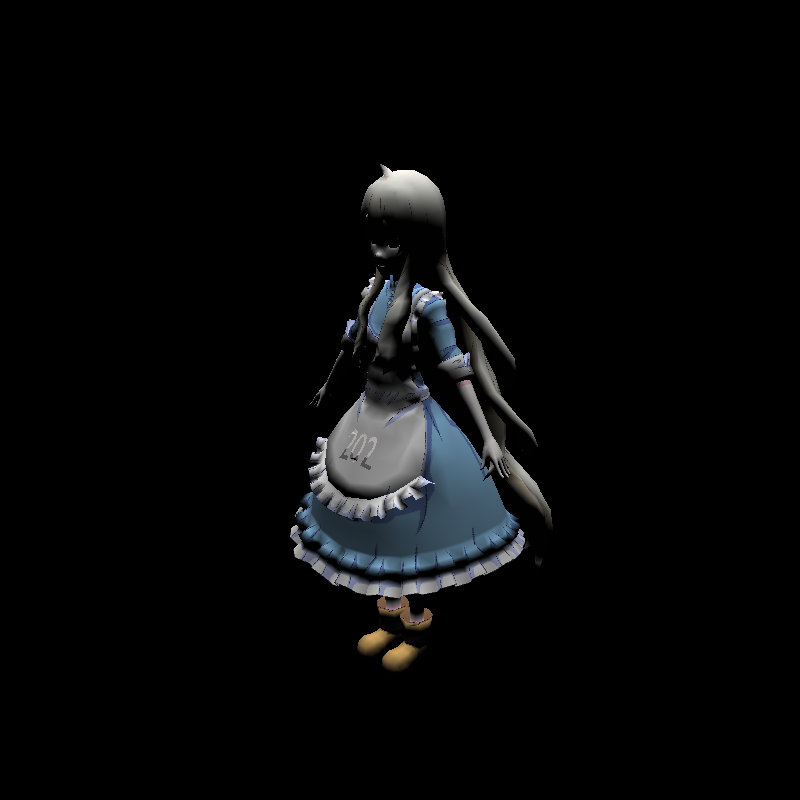
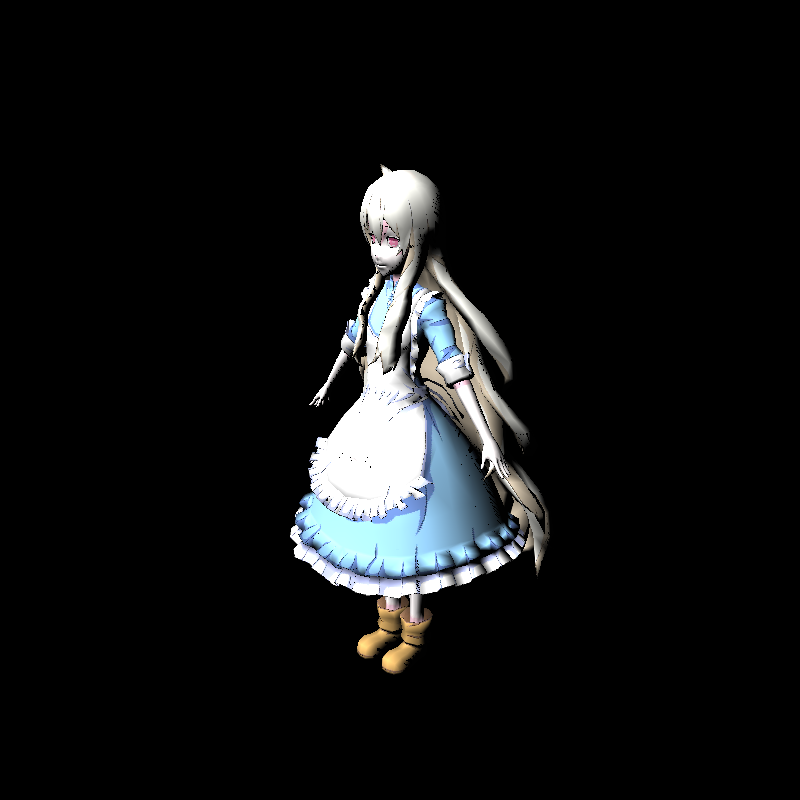
two-passed-shadow

Changed region(s): [[0.3438, 0.1875, 0.6875, 0.8438]]

diff --git a/main.cpp b/main.cpp
@@ -159,6 +159,8 @@ void Example03() {
     // delete[] zbuffer;
 }
 
+// Gouraud Shader
+/*
 void Example04() {
     const Vec3f camera(1,1,1);
     const Vec3f origin(0,0,0);
@@ -211,7 +213,10 @@ void Example04() {
 
     delete model;
 }
+*/
 
+// Phong Shader with no shadow
+/*
 void Example05() {
     const Vec3f camera(1,1,1);
     const Vec3f origin(0,0,0);
@@ -264,6 +269,87 @@ void Example05() {
 
     delete model;
 }
+*/
+
+// Phong Shader with hard shadow
+void Example06() {
+    const Vec3f camera(1,1,1);
+    const Vec3f origin(0,0,0);
+    const Vec3f up(0,1,0);
+    QGL::DirectLight dl = QGL::DirectLight(Vec3f(0, 1, 1), Vec3f(0,-1,-1));
+    QGL::Frame depthFrame = QGL::Frame(width, height, 4);
+    depthFrame.id = 1;
+    QGL::Frame frame = QGL::Frame(width, height, 4);
+    frame.id = 2;
+    QGL::Zbuffer zbuffer = QGL::Zbuffer(width, height);
+    QGL::Log log = QGL::Log(true, "Depth Shading: ");
+    // QGL::NUMTHREADS = 8;
+ 
+    QGL::Model *model = new QGL::Model("../obj/Marry.obj");
+    model->vertsNormalize();
+    model->loadMap("../obj/MC003_Kozakura_Mari.png", QGL::MT_Diffuse);
+
+    // Set camera from light
+    std::cout << "set camera from light." << std::endl;
+    QGL::SetModelMat();
+    QGL::SetViewMat(dl.pos, origin, up);
+    // QGL::SetPerspectiveProjectMat(camera, origin);
+    QGL::SetScreenMat(-100, -350, 1000, 1000, depth);
+    QGL::SetCamera(true);
+
+    // Depth Shader
+    std::cout << "set Depth Shader." << std::endl;
+    QGL::DepthShader depthShader = QGL::DepthShader();
+    depthShader.uniform_mat_transform = QGL::MAT_TRANS;
+    // Get z-buffer
+    QGL::RenderNode rn;
+    rn.model = model;
+    rn.shader = &depthShader;
+    rn.frame = &depthFrame;
+    rn.zbuffer = &zbuffer;
+    rn.log = &log;
+    rn.comType = QGL::CT_Single;
+    std::cout << "Get z-buffer" << std::endl;
+    QGL::Timer timer = QGL::Timer();
+    timer.update();
+    QGL::Rendering(rn);
+    std::cout << timer.second() << "s" << std::endl;
+
+
+    std::cout << "set Shadow Shader." << std::endl;
+    log = QGL::Log(true, "Shadow Shading: ");
+    QGL::ShadowShader shadowShader = QGL::ShadowShader();
+    shadowShader.uniform_mat_depth_transform = QGL::MAT_TRANS;
+    // Set camera from eye
+    std::cout << "Set camera from eye." << std::endl;
+    QGL::SetModelMat();
+    QGL::SetViewMat(camera, origin, up);
+    QGL::SetPerspectiveProjectMat(camera, origin);
+    QGL::SetScreenMat(-100, -350, 1000, 1000, depth);
+    QGL::SetCamera(true);    
+
+    shadowShader.uniform_mat_transform = QGL::MAT_TRANS;    
+    shadowShader.uniform_mat_norm_transform = QGL::MAT_NORM_TRANS;
+    shadowShader.uniform_camera = camera;
+    shadowShader.uniform_light = -dl.dir;
+    shadowShader.depthFrame = &depthFrame;
+
+    rn.shader = &shadowShader;
+    rn.frame = &frame;
+    zbuffer.clear();
+
+    std::cout << "Render Shadow." << std::endl;
+    timer.update();
+    QGL::Rendering(rn);
+    std::cout << timer.second() << "s" << std::endl;
+
+    std::cout << "draw frame." << std::endl;
+    std::string out = "../example/out.png";
+    frame.flip();
+    frame.draw(out.c_str());
+
+    delete model;
+}
 
 void ExampleOmp() {
     // std::cout << "Num theads supported: " << omp_get_num_procs() << std::endl;
@@ -279,7 +365,7 @@ void ExampleOmp() {
 
 int main(int argc, char** argv) {
 
-    Example05();
+    Example06();
 
     return 0;
 }

diff --git a/shaders.h b/shaders.h
@@ -63,7 +63,8 @@ public:
     }
 
     virtual bool fragment(const InFragment &in, OutFragment &out) {
-        float depth = 1.0f-std::pow(cos(in.depth*M_PI/2), 1);
+        // float depth = 1.0f-std::pow(cos(in.depth*M_PI/2), 1);
+        float depth = in.depth;
         out.color = Vec4f(Vec3f(1.0f, 1.0f, 1.0f)*depth, 1.0f);
         return false;
     }    
@@ -168,6 +169,72 @@ public:
         float diffuse = std::max(0.0f, dir*N);
 
         Vec3f v = varying_vertex[0]*bar[0]+varying_vertex[1]*bar[1]+varying_vertex[2]*bar[2];
+        Vec3f view = uniform_camera-v;
+        Vec3f h = (view + dir).normalize();
+        float a = std::max(0.0f, h*N);
+        float specular = std::pow(a, 100.f);
+
+        Vec2f uv = varying_uv[0]*bar[0]+varying_uv[1]*bar[1]+varying_uv[2]*bar[2];
+        Vec4f color;
+        in.model->sampleDiffuse(uv, color);
+
+        float Kd = 0.8;
+        float Ks = 0.0;
+        float Ka = 1.0;
+
+        color = color*(Kd*diffuse+Ks*specular)*1.3f+Ka/255.0f;
+        color[3] = 1.0f;
+        out.color = color;
+        return false;
+    }    
+};
+
+class ShadowShader : public Shader {
+public:
+    Matrix uniform_mat_transform;
+    Matrix uniform_mat_norm_transform;
+    Matrix uniform_mat_depth_transform;
+    Vec3f uniform_camera;
+    Vec3f uniform_light;
+    Vec3f varying_vertex[3];
+    Vec3f varying_normal[3];
+    Vec2f varying_uv[3];
+    Frame *depthFrame;
+
+    virtual void vertex(const InVectex &in, OutVectex &out) {
+        Vec4f _normal = Vec4f(in.model->norm(in.nthface, in.nthvert), 0.0f);
+        _normal = (uniform_mat_norm_transform*_normal).normalize();
+        varying_normal[in.nthvert] = _normal.v3f();
+
+        varying_vertex[in.nthvert] = in.v;
+        Vec4f vertex = Vec4f(in.v, 1.0f);
+        vertex = uniform_mat_transform*vertex;
+        vertex = vertex / vertex.w;
+        out.sCoord = vertex;
+
+        // tex
+        Vec2f uv = in.model->tex(in.nthface, in.nthvert);
+        varying_uv[in.nthvert] = uv;
+    }
+
+    virtual bool fragment(const InFragment &in, OutFragment &out) {
+        Vec3f bar = in.bar;
+        Vec3f dir = uniform_light;
+        Vec3f v = varying_vertex[0]*bar[0]+varying_vertex[1]*bar[1]+varying_vertex[2]*bar[2];
+        
+        // if shadow
+        Vec4f v4f = Vec4f(v, 1.0f);
+        v4f = uniform_mat_depth_transform*v4f;
+        v4f = v4f / v4f.w;
+        float z = depthFrame->get(int(v4f.x+.5f), int(v4f.y+.5f))[0];
+        if (v4f.z > z + 0.003f) {
+            out.color = Vec4f(0.0f, 0.0f, 0.0f, 1.0f);
+            return false;
+        }
+
+        Vec3f N = varying_normal[0]*bar[0]+varying_normal[1]*bar[1]+varying_normal[2]*bar[2];
+        float diffuse = std::max(0.0f, dir*N);
+
         Vec3f view = uniform_camera-v;
         Vec3f h = (view + dir).normalize();
         float a = std::max(0.0f, h*N);

diff --git a/objects.h b/objects.h
@@ -13,11 +13,15 @@ struct Frame {
     int width;
     int height;
     int channel;
+    int id;
     std::vector<Vec4f> buffer;
     Frame(int w, int h, int n) : width(w), height(h), channel(n) {
         buffer = std::vector<Vec4f>(w*h, Vec4f(Vec3f(0.0f), 1.0f));
     }
     ~Frame(){}
+    Vec4f get(int i, int j) {
+        return buffer[i+width*j];
+    }
     void set(int i, int j, Vec4f color) {
         buffer[i+width*j] = color;
     }
@@ -31,13 +35,16 @@ struct Zbuffer {
     int height;
     std::vector<float> zbuffer;
     Zbuffer(int w, int h) : width(w), height(h){
-        zbuffer = std::vector<float>(w*h, std::numeric_limits<float>::min());
+        zbuffer = std::vector<float>(w*h, 0.0f);
     }
     float get(int i, int j) {
         return zbuffer[i+width*j];
     }
     void set(int i, int j, float z) {
         zbuffer[i+width*j] = z;
+    }
+    void clear() {
+        std::fill(zbuffer.begin(), zbuffer.end(), 0.0f);
     }
 };
 
@@ -114,8 +121,7 @@ struct Log {
 };
 
 // 计时器
-class Timer
-{
+class Timer {
 public:
     Timer() {update();}
     ~Timer() {}
@@ -127,13 +133,22 @@ private:
     time_point<high_resolution_clock>_start;
 };
 
+// 光源
+struct Light {
+    virtual ~Light() {};
+};
 
+struct DirectLight : Light {
+    Vec3f pos;
+    Vec3f dir;
+    DirectLight(Vec3f pos, Vec3f dir) : pos(pos), dir(dir) {} 
+};
 
-
-
-
-
-
+struct PointLight : Light {
+    Vec3f pos;        // 位置
+    float illumination;
+    PointLight(Vec3f pos, float illumination) : pos(pos), illumination(illumination) {}
+};
 
 
 // 

diff --git a/qgl.cpp b/qgl.cpp
@@ -8,14 +8,14 @@ namespace QGL {
 
 int NUMTHREADS = 1;
 
-Matrix MAT_MODEL;   // 模型空间
-Matrix MAT_VIEW;    // 相机空间
-Matrix MAT_PPROJECT; // 透视投影空间
-Matrix MAT_OPROJECT; // 正交投影空间
-Matrix MAT_SCREEN;  // 屏幕空间
-Matrix MAT_TRANS;
-Matrix MAT_NORM_TRANS;
-Matrix MAT_NORM_IT;
+Matrix MAT_MODEL = Matrix::identity(4);;   // 模型空间
+Matrix MAT_VIEW = Matrix::identity(4);;    // 相机空间
+Matrix MAT_PPROJECT = Matrix::identity(4);; // 透视投影空间
+Matrix MAT_OPROJECT = Matrix::identity(4);; // 正交投影空间
+Matrix MAT_SCREEN = Matrix::identity(4);;  // 屏幕空间
+Matrix MAT_TRANS = Matrix::identity(4);;
+Matrix MAT_NORM_TRANS = Matrix::identity(4);;
+Matrix MAT_NORM_IT = Matrix::identity(4);;
 
 
 /*! \brief Convert RGB to HSV color space
@@ -235,6 +235,7 @@ void SingleRendering(RenderNode &rn) {
     Shader *shader = rn.shader;
     Log *log = rn.log;
     // Zbuffer *zbuffer = rn.zbuffer;
+	Frame *frame = rn.frame;
     Vec4f screen_coords[3];
     int nfaces = model->nfaces();
     for (int i = 0; i < nfaces; ++i) {

diff --git a/geometry.cpp b/geometry.cpp
@@ -4,7 +4,7 @@
 #include <iostream>
 #include "geometry.h"
 
-template <> template <> Vec3<int>::Vec3(const Vec3<float> &v) : x(int(v.x+.5)), y(int(v.y+.5)), z(int(v.z+.5)) {
+template <> template <> Vec3<int>::Vec3(const Vec3<float> &v) : x(v.x), y(v.y), z(v.z) {
 }
 
 template <> template <> Vec3<float>::Vec3(const Vec3<int> &v) : x(v.x), y(v.y), z(v.z) {
